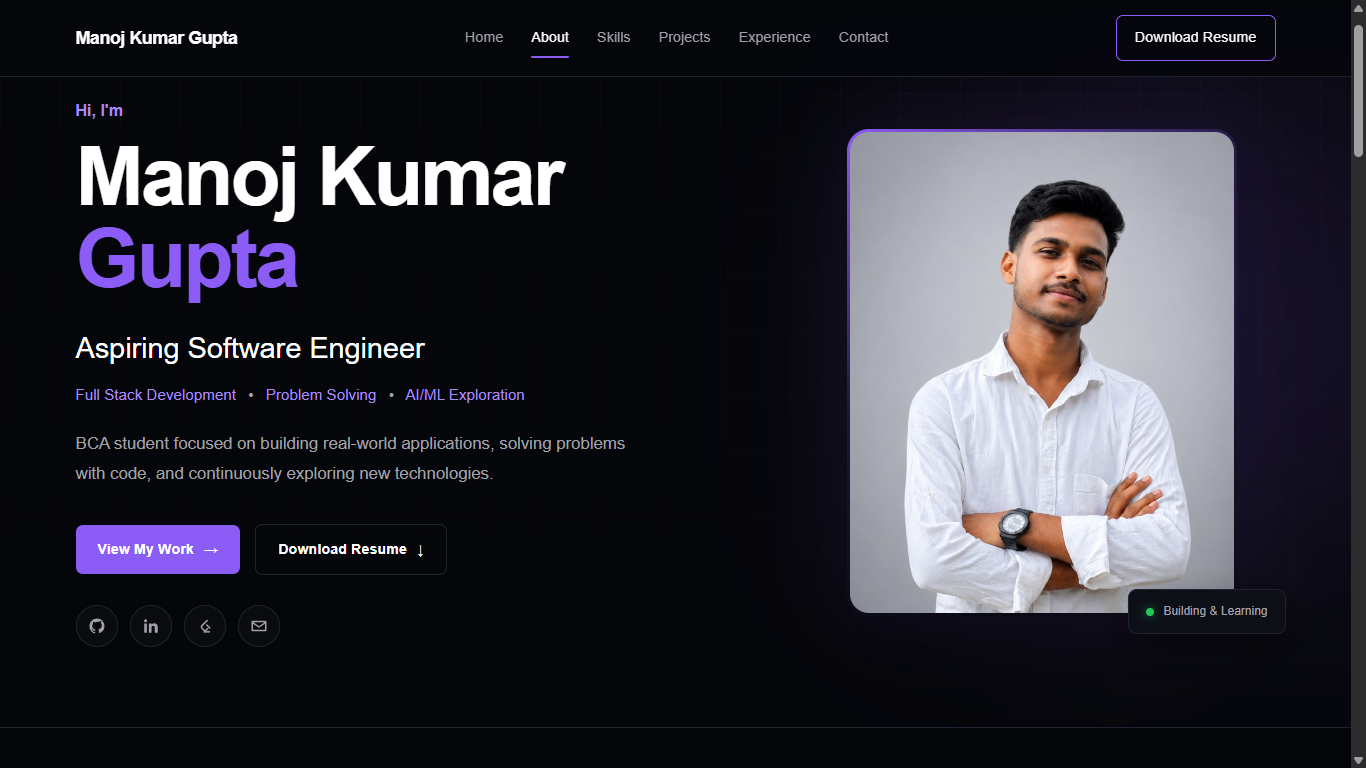
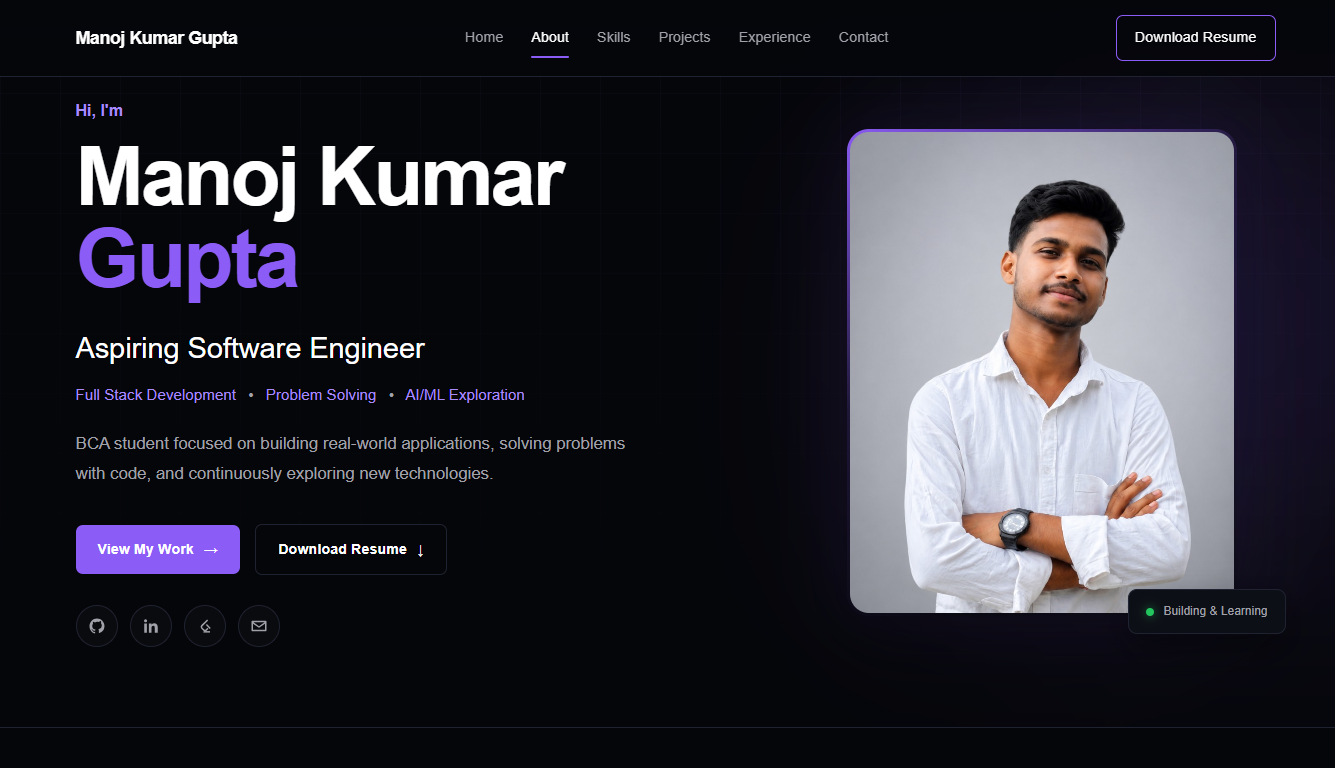
Implement code changes to enhance functionality and improve performance

diff --git a/index.html b/index.html
@@ -678,7 +678,7 @@
                     <div class="project-preview">
 
                         <img
-                            src="assets/weather-dashboard.png"
+                            src="assets/smart-weather.png"
                             alt="Smart Weather Dashboard project preview"
                         >
 
@@ -771,29 +771,22 @@
 
                 <!-- Project Image -->
 
-                <div class="project-image project-placeholder">
+              <div class="project-image project-preview">
 
-                    <div class="placeholder-content">
+    <img
+        src="assets/expense-tracker.png"
+        alt="Expense Tracker project preview"
+    >
 
-                        <span>
-                            EXPENSE TRACKER
-                        </span>
+    <span class="project-number">
+        02
+    </span>
 
-                        <strong>
-                            02
-                        </strong>
+    <span class="project-status">
+        Completed
+    </span>
 
-                    </div>
-
-                    <span class="project-number">
-                        02
-                    </span>
-
-                    <span class="project-status">
-                        Completed
-                    </span>
-
-                </div>
+</div>
 
 
                 <!-- Project Content -->
@@ -869,31 +862,22 @@
             <article class="project-card project-featured">
 
                 <!-- Project Image -->
+<div class="project-image project-preview">
 
-                <div class="project-image project-placeholder">
+    <img
+        src="assets/portfolio.png"
+        alt="personal portfolio project preview"
+    >
 
-                    <div class="placeholder-content">
+    <span class="project-number">
+        02
+    </span>
 
-                        <span>
-                            PERSONAL PORTFOLIO
-                        </span>
+    <span class="project-status">
+        Completed
+    </span>
 
-                        <strong>
-                            03
-                        </strong>
-
-                    </div>
-
-                    <span class="project-number">
-                        03
-                    </span>
-
-                    <span class="project-status">
-                        In Progress
-                    </span>
-
-                </div>
-
+</div>
 
                 <!-- Project Content -->
 
